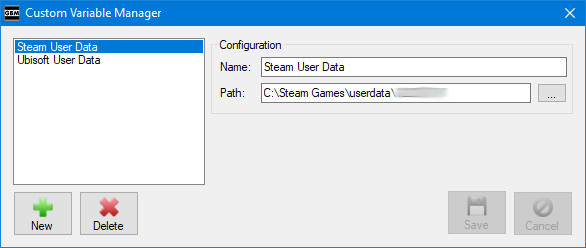
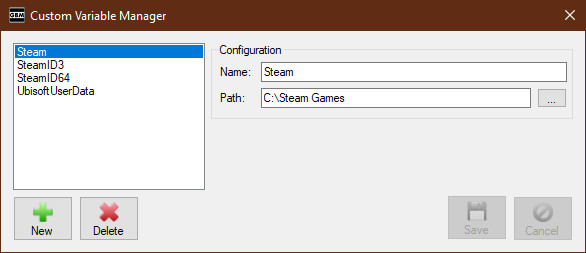
Added "Store Variables" section

diff --git a/manual.html b/manual.html
@@ -33,7 +33,7 @@
             Game Backup Monitor v1.3.1 Manual
           </div>
           <div class="pageSectionContent">
-            <h3 class="notop">Updated May 11, 2022</h3>
+            <h3 class="notop">Updated May 13, 2022</h3>
             <h3>Important Notes:</h3>
             <p>An offline version of the manual is available <a href="https://github.com/Darthagnon/gbm-manual">here</a>.  The offline manual is kindly provided by <a href="https://github.com/Darthagnon">Darthagnon</a>.</p>
             <p>This manual may contain information about features not available in the current stable release.</p>
@@ -62,6 +62,7 @@
               <li><a href="#ludusavi">Ludusavi Manfiest</a></li>
               <li><a href="#launcher">Launching Games</a></li>
               <li><a href="#customvariables">Custom Path Variables</a></li>
+              <li><a href="#storevariables">Preconfigured Store Variables</a></li>
               <li><a href="#tools">Tools</a></li>
               <li><a href="#filtering">Custom Filters</a></li>
               <li><a href="#syncing">Automatic Syncing</a></li>
@@ -809,15 +810,13 @@
             <a name="customvariables" id="customvariables">Custom Path Variables</a>
           </div>
           <div class="pageSectionContent">
-            <p>This screen allows you to add an unlimited number of custom path variables to use in the configuration of your games.</p><img class="manual" src="images/manual/manual_09.jpg" width="586" height="248" alt="Custom Path Variables" /><br />
+            <p>This screen allows you to add an unlimited number of custom path variables to use in the configuration of your games.</p><img class="manual" src="images/manual/manual_09.jpg" width="586" height="253" alt="Custom Path Variables" /><br />
             <p>Some games store their save files in locations that can be slightly different on each computer, this feature allows you to account for that and share configurations between any computer.</p>
+            <p>You may see some automatically configured variables here, please see the <a href="#storevariables">Preconfigured Store Variables</a> for more details.</p>
             <h4>Name:</h4>
             <p>This is the name of the variable.  It cannot contain the % character, which will be stripped upon saving.</p>
             <h4>Path:</h4>
-            <p>This is the local path the variable refers to.</p>
-            <h4>Example:</h4>
-            <p>Many games designed for Steam use the "userdata" sub-folder in the Steam folder as a common saved game location.  But since Steam can be installed in a variety of locations, as well as each user having a different ID folder, every computer and user will store their saved games in a different location.</p>
-            <p>We can create a custom path variable for this location, such as "Steam User Data" and point it to the location that changes.  Once we do this, any application configured to use that folder will use the variable instead and any another computer using that configuration simply has to setup the same variable and point it to the proper folder on their computer.</p>
+            <p>This can be a local path or simply a string that the variable refers to.</p>            
             <h4>Notes:</h4>
             <ul>
               <li>Custom Path Variables can be used in the "Save Path" and "Game Path" fields of a configuration.</li>
@@ -829,8 +828,53 @@
                   <li>If you do this, open and make a small change, then save any affected configuration in the Game Manager to fix any problems.</li>
                 </ul>
               </li>
-              <li>This is an advanced feature and can be completely ignored by most users, the official pre-configured list will never contain games that use a custom path variable.</li>
             </ul>          
+          </div>
+          <div class="pageSectionFooter">
+            <a href="#toc">Back to Contents</a>
+          </div>
+        </div>
+        <div class="pageSection">
+          <div class="pageSectionHeader">
+            <a name="storevariables" id="storevariables">Preconfigured Store Variables</a>
+          </div>
+          <div class="pageSectionContent">
+            <p>On startup, GBM attempts to automatically create custom path variables to support cloud save locations of popular stores.  Currently only Steam is supported.
+              <ul>
+                <li>You can edit or delete these automatically created variables, but GBM will just restore them the next time it starts.</li>
+              </ul>
+            </p>
+            <p>If you've previously setup your own stores variables, GBM may automatically rename or duplicate them.</p>
+            <p>This shouldn't be a problem, but if you'd like to clean up duplicated variables follow the instructions below:
+              <ol>
+                <li>Open Setup -> Custom Path Variables... from the menu.</li>
+                <li>Delete all variables related to the store (Ex. Steam).</li>
+                <li>Restart GBM and it will create a single set of variables.</li>
+              </ol>
+            </p>
+            <p>If you've received a warning that a store failed to automatically configure, follow the instructions below for each store to configure it yourself.</p>            
+            <h3>Steam</h3>
+            <p>GBM uses two variables for Steam by default.  If you need to create these variables manually read the <a href="#customvariables">Custom Path Variables</a> section and the instructions below.
+              <ul>
+                <li>Steam
+                  <ul>
+                    <li>Create a variable with the name <b>Steam</b> and the path of your Steam installation folder.</li>
+                    <li>The Steam installation folder contains <b>steam.exe</b> and a <b>userdata</b> folder.</li>
+                  </ul>
+                </li>
+                <li>SteamID3
+                  <ul>
+                    <li>Create a variable with the name <b>SteamID3</b> and enter only your SteamID3 as the path.</li>  
+                    <li>You can find your SteamID3 by opening the <b>userdata</b> folder inside your Steam installation folder
+                      <ul>
+                        <li>This folder will contain one or more numbered folders.  One of these numbers is your SteamID3.</li>
+                        <li>If you see multiple folders here, you may need to use <a href="https://www.steamidfinder.com/">Steam ID Finder</a> to determine which ID is for your Steam account.</li>
+                      </ul>
+                    </li> 
+                  </ul>
+                </li>                               
+              </ul>
+            </p>
           </div>
           <div class="pageSectionFooter">
             <a href="#toc">Back to Contents</a>
@@ -869,12 +913,7 @@
             <img class="manual" src="images/manual/manual_20.jpg" width="286" height="303" alt="Tools" /><br />            
             <p>You may choose between CSV (Comma Seperated Values) and XML formats.</p>
             <p>You may choose to export dates using the Unix timestamp format or your current locale settings.</p>
-            <p>The CSV format can be exported with or without headers.</p>
-            <h4>Sync Game IDs</h4>
-            <p>GBM uses the game ID to determine which game configurations you already have when importing game configurations from the official list or an XML file.  If these IDs do not match, all configurations will be seen as "New".</p>
-            <p>To solve this problem you can sync your Game IDs with the official list or an export file using this tool.  This tool is not 100% effective and some games will be missed if their names have changed substantially.</p>
-            <p>This tool is mainly for upgrading configurations from old versions of GBM so they will be recognized by the official import.</p>                                  
-            <p><b>Important:</b> If you share a backup folder with multiple PCs, using this feature may cause data loss.  Read the <a href="#syncing">Automatic Syncing</a> section for more details.</p>
+            <p>The CSV format can be exported with or without headers.</p>            
           </div>
           <div class="pageSectionFooter">
             <a href="#toc">Back to Contents</a>
